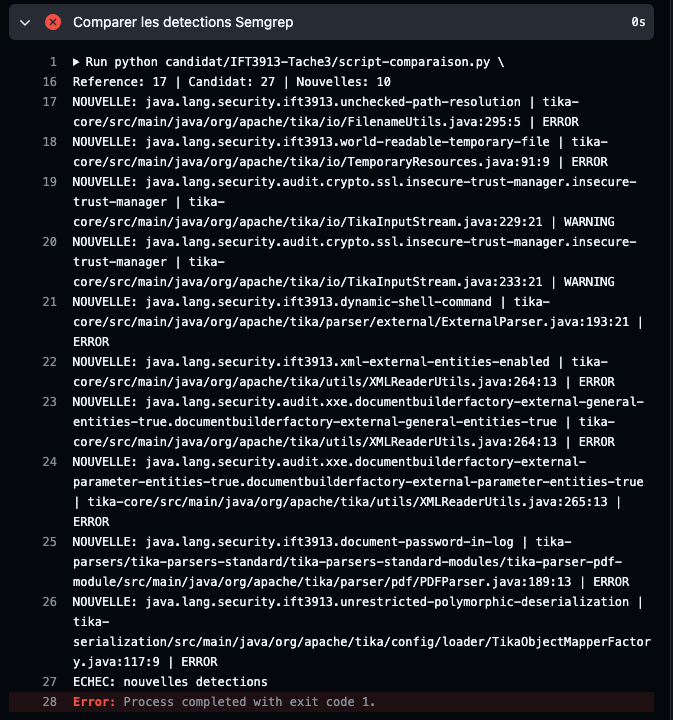
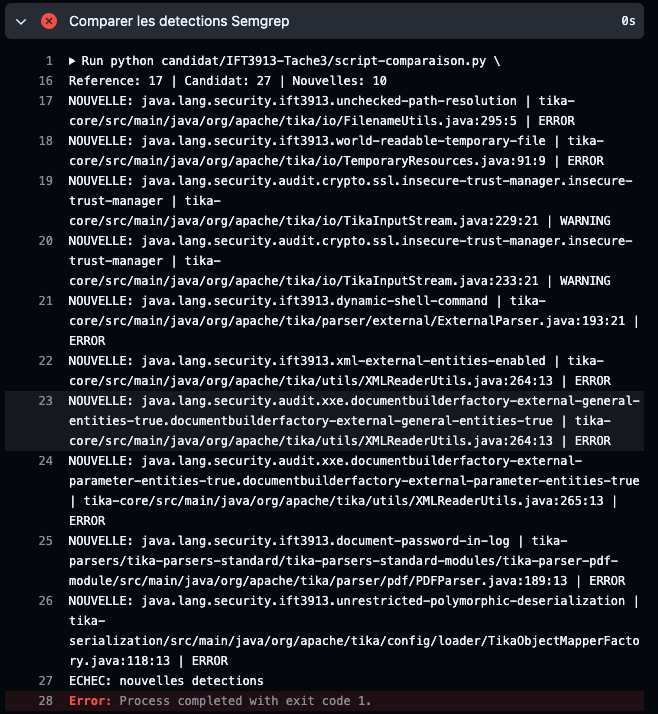
Document security gate validation on pull request

Changed region(s): [[0.0, 0.0, 1.0, 1.0], [0.9422, 0.0, 1.0, 0.0616]]

diff --git a/IFT3913-Tache3/readme.md b/IFT3913-Tache3/readme.md
@@ -48,7 +48,7 @@ On obtient **17 alertes avant les modifications**, puis **27 après**, soit **10
 - [Rapport après les modifications](preuves/apres.json).
 - [Comparaison des deux rapports, avec les règles et les lignes signalées](preuves/comparaison.json).
 
-Sur [l’exécution avec les sept vulnérabilités](https://github.com/AymenCHINIG1/tika/actions/runs/43675203088), Semgrep passe au rouge et les deux builds sont ignorés. On retrouve les dix nouvelles détections sur [la capture](preuves/semgrep.png).
+Sur [l’exécution avec les sept vulnérabilités](https://github.com/AymenCHINIG1/tika/actions/runs/43675203088), Semgrep passe au rouge et les deux builds sont ignorés.
 
 Les modules modifiés compilent et les [vérifications locales](preuves/verification.txt) réussissent. Pour TLS et les logs, on a vérifié le code et la détection, sans simuler une interception HTTPS ni un scénario complet de fuite de mot de passe.
 
@@ -65,6 +65,8 @@ Pour la partie humour, on a ajouté une [action réutilisable](../.github/action
 On a ajouté temporairement une assertion fausse dans un test pour vérifier que ça se déclenche bien. Sur [cette exécution](https://github.com/AymenCHINIG1/tika/actions/runs/43677310775), le message et le lien apparaissent, et le job reste rouge ([capture](preuves/rickroll.png)). On a ensuite retiré le test volontairement faux. Si c’est Semgrep ou le build préalable qui échoue, le rickroll ne se lance pas.
 
 Sur [la dernière exécution](https://github.com/AymenCHINIG1/tika/actions/runs/43679221888), tout est vert : Semgrep, les tests core, les mutations et les tests PDF. Les sept vulnérabilités sont toujours là, mais ce dernier push n’en ajoute pas par rapport au précédent.
+
+Sur la [PR vers `tache3`](https://github.com/AymenCHINIG1/tika/pull/7), le [contrôle Semgrep échoue](https://github.com/AymenCHINIG1/tika/actions/runs/43758282959) avec les dix nouvelles détections attendues et les deux builds sont ignorés ([capture](preuves/semgrep.png)).
 
 ## Utilisation de l’IA
 
